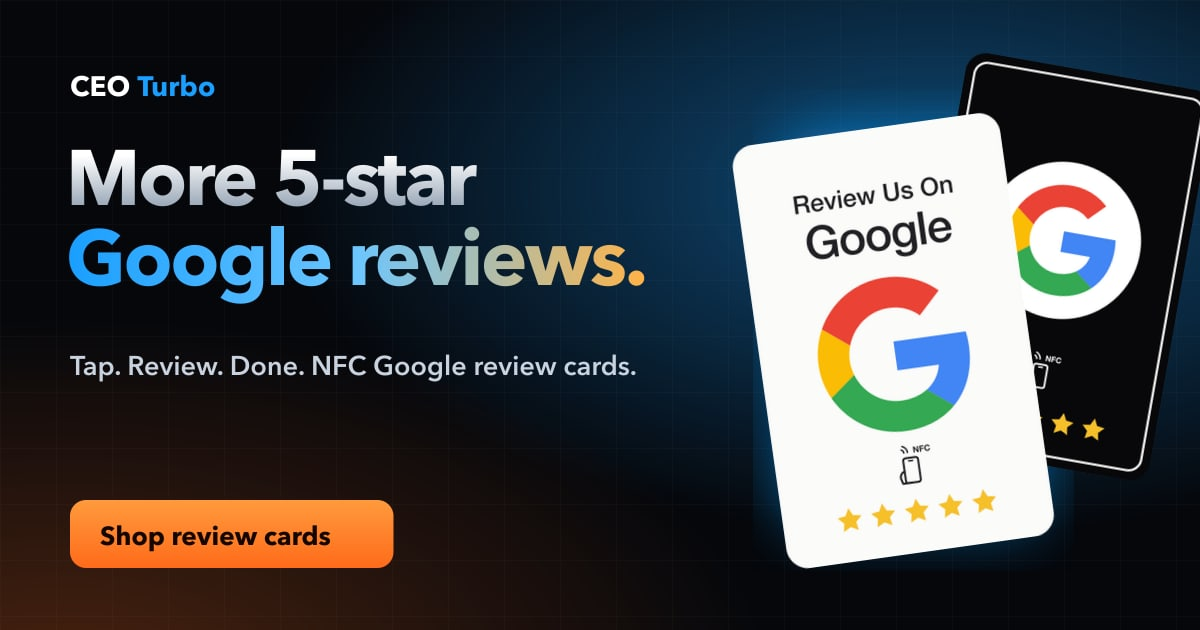
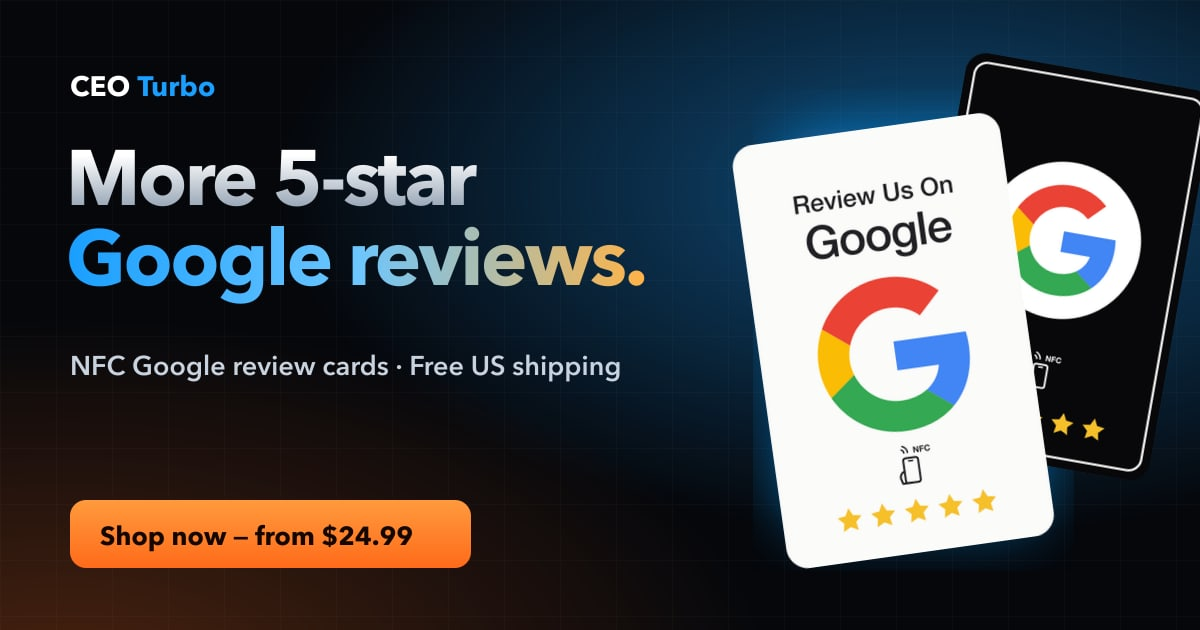
Pack variant images, price on share image, opaque mobile menu
- Add pack-1/2/5 product images (generated from the card vector art) and pack thumbnails in the buy box
- Share image for the shop now shows the live from-price and free shipping; cache-busted with ?v=2
- Remove unreferenced old $27.99 business-card share image
- Mobile menu background is fully opaque (page was showing through)

Changed region(s): [[0.0617, 0.5429, 0.5242, 0.6032], [0.1542, 0.7841, 0.4008, 0.9048]]

diff --git a/src/seo/pages.ts b/src/seo/pages.ts
@@ -87,7 +87,7 @@ function build(): PageMeta[] {
     path: SHOP_PATH,
     title: `NFC Google Review Cards — Tap to Review, from ${fromPriceLabel} | CEO Turbo`,
     description: `Customers tap their phone and your Google review form opens. iPhone & Android, no app, no subscription. From ${fromPriceLabel}, free US shipping.`,
-    ogImage: "/og/review-cards.jpg",
+    ogImage: "/og/review-cards.jpg?v=2",
     priority: 0.9,
     changefreq: "weekly",
     group: "Core",
@@ -99,7 +99,7 @@ function build(): PageMeta[] {
     title: "Google Review Card Setup: Find Your Review Link | CEO Turbo",
     description:
       "Set up your NFC Google review card in 5 minutes: find your review link in Google Business Profile, write it with the free NFC Tools app and test it.",
-    ogImage: "/og/review-cards.jpg",
+    ogImage: "/og/review-cards.jpg?v=2",
     priority: 0.7,
     changefreq: "monthly",
     group: "Guides",

diff --git a/src/components/site/Header.tsx b/src/components/site/Header.tsx
@@ -72,7 +72,7 @@ export function Header({ focus = false }: { focus?: boolean }) {
   }, [open]);
 
   return (
-    <header className={cn("fixed inset-x-0 top-0 z-50 transition-colors duration-300", scrolled || open ? "bg-background/95 backdrop-blur-xl shadow-[0_1px_0_hsl(var(--border))]" : "bg-gradient-to-b from-background/90 to-transparent")}>
+    <header className={cn("fixed inset-x-0 top-0 z-50 transition-colors duration-300", open ? "bg-background" : scrolled ? "bg-background/95 backdrop-blur-xl shadow-[0_1px_0_hsl(var(--border))]" : "bg-gradient-to-b from-background/90 to-transparent")}>
       <a href="#main" className="sr-only focus:not-sr-only focus:absolute focus:left-4 focus:top-3 focus:z-50 focus:rounded-lg focus:bg-card focus:px-4 focus:py-2">
         Skip to content
       </a>

diff --git a/src/components/shop/BuyBox.tsx b/src/components/shop/BuyBox.tsx
@@ -198,6 +198,7 @@ export function BuyBox({ business, onBusiness }: { business: string; onBusiness:
                     <span className={cn("grid h-5 w-5 shrink-0 place-items-center rounded-full ring-2", packId === p.id ? "ring-turbo" : "ring-white/25")} aria-hidden>
                       {packId === p.id && <span className="h-2.5 w-2.5 rounded-full bg-turbo" />}
                     </span>
+                    <img src={`/img/review-cards/pack-${p.qty}-thumb.webp`} alt="" width={48} height={48} loading="lazy" decoding="async" className="h-12 w-12 shrink-0 rounded-lg bg-white object-contain" />
                     <span className="min-w-0 flex-1">
                       <span className="flex flex-wrap items-center gap-2 text-sm font-semibold">
                         {p.label}

diff --git a/src/test/site.test.tsx b/src/test/site.test.tsx
@@ -62,7 +62,7 @@ describe("assets", () => {
   it("has every ad creative, dashboard and share image", () => {
     ADS.forEach((a) => expect(existsSync(pub(`/img/ads/${a.slug}.webp`)), a.slug).toBe(true));
     AD_RESULTS.forEach((r) => expect(existsSync(pub(r.image)), r.key).toBe(true));
-    PAGES.filter((p) => p.ogImage).forEach((p) => expect(existsSync(pub(p.ogImage!)), p.path).toBe(true));
+    PAGES.filter((p) => p.ogImage).forEach((p) => expect(existsSync(pub(p.ogImage!.split("?")[0])), p.path).toBe(true));
   });
 });
 
